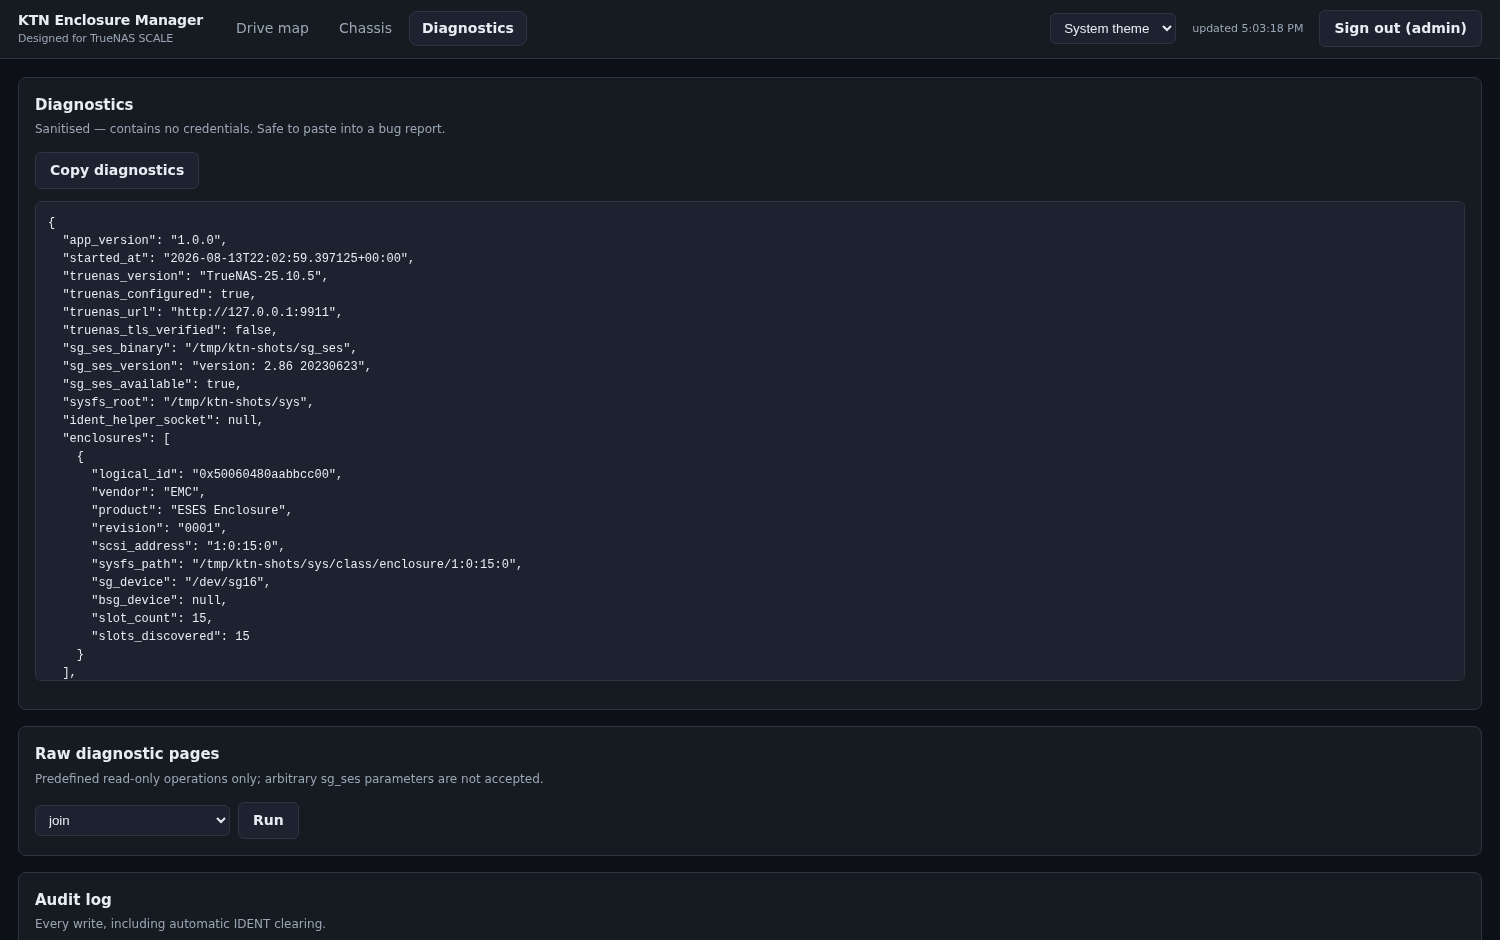
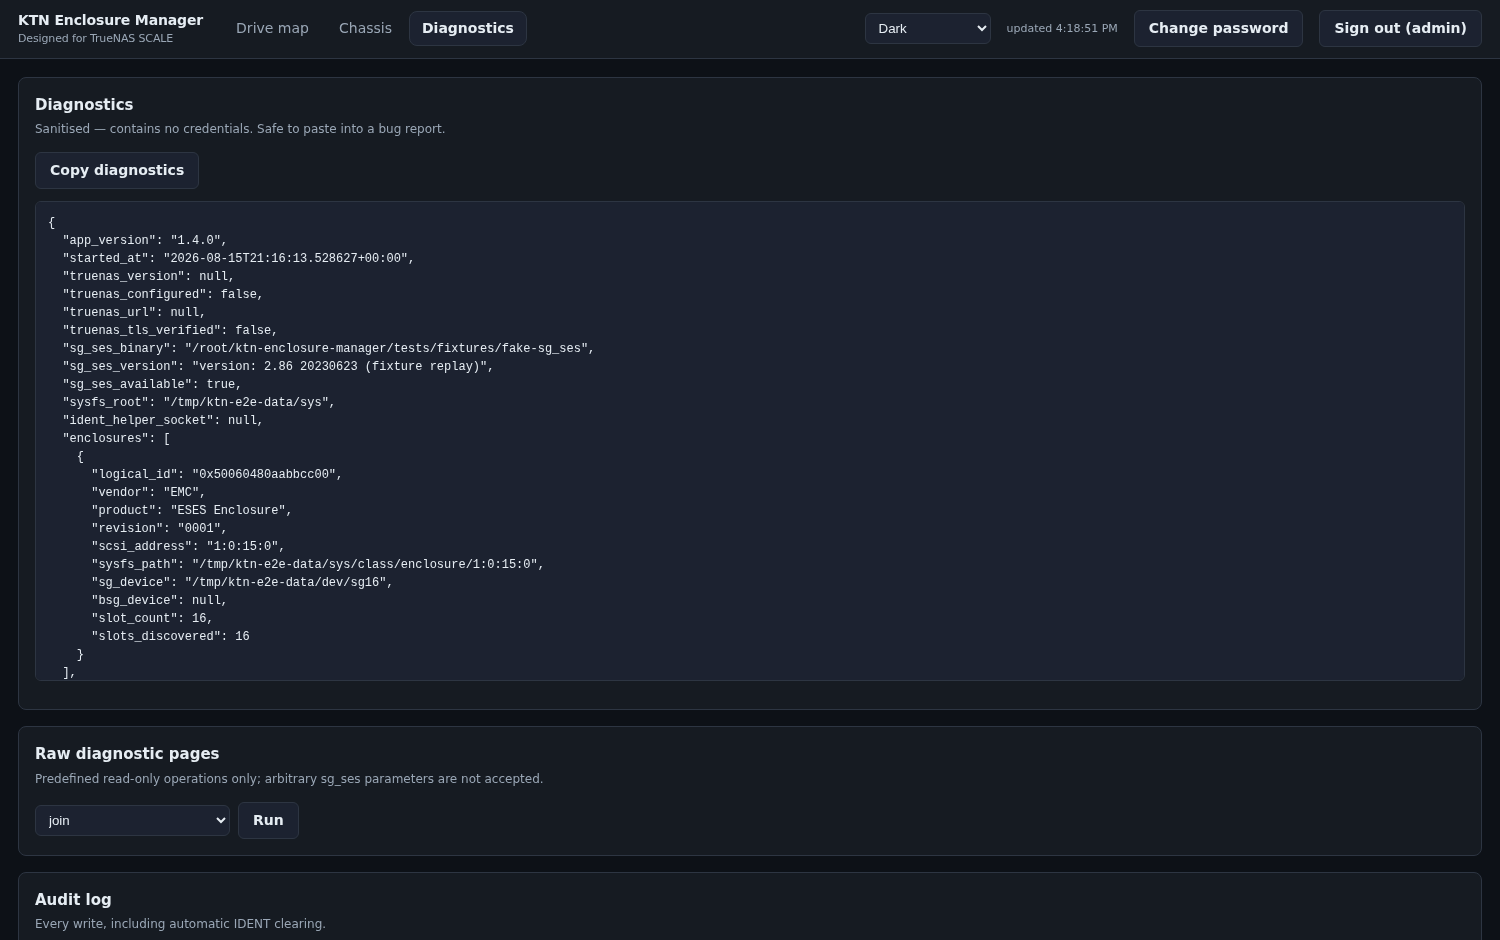
Refresh the screenshots, and give the chassis view real test coverage
The screenshots dated from 8/13 and predated the change-password button
and the reworked SMART panel. Regenerated from the sanitised fixture
rather than the live shelf, so no real serials, WWNs or enclosure ids can
reach a public repo - that constraint is why they are shot this way and
not from production.

Chassis could not be captured that way before: the fixture has no SES
device, so the tab rendered "sg_ses is not installed" and the first
attempt replaced a good screenshot with a 27KB picture of an error
message. tests/fixtures/fake-sg_ses now replays the captured, sanitised
SES pages, wired into the E2E harness. The stub refuses unrecognised
arguments rather than inventing output, which is how it caught its own
device-path bug immediately.

That also buys real coverage: the chassis rendering path had none, since
it was never exercised with data. There is now a test asserting the
subenclosure list actually renders, bounded by the poll interval rather
than a guessed sleep - a short wait is exactly how the bad screenshot
happened.

Also drops frontend/tsconfig.tsbuildinfo from tracking; a build cache in
the repo can make tsc skip work it should redo.

Claude-Session: https://claude.ai/code/session_014UDohyzVGaVnDkpcLJ4g3V

diff --git a/frontend/e2e/app.spec.ts b/frontend/e2e/app.spec.ts
@@ -124,10 +124,28 @@ test.describe("identify", () => {
 test.describe("chassis and diagnostics", () => {
   test.beforeEach(async ({ page }) => bootstrapAndLogin(page));
 
-  test("chassis reports unavailability rather than breaking", async ({ page }) => {
-    // sg_ses is absent in CI, which must degrade this section only (§37).
+  test("chassis renders without breaking the page", async ({ page }) => {
+    // The harness replays captured SES pages through tests/fixtures/fake-sg_ses,
+    // so this section has content. It must also survive having none - the poll
+    // runs on an interval, so early in a run it legitimately shows the
+    // not-collected-yet state, and either is acceptable here (§37).
     await page.getByRole("tab", { name: "Chassis" }).click();
     await expect(page.getByRole("heading", { name: "Chassis" })).toBeVisible();
+  });
+
+  test("chassis telemetry renders once the SES poll has run", async ({ page }, testInfo) => {
+    // One project only: the wait is bounded by the SES poll interval and there
+    // is no value in paying it twice for the same backend.
+    test.skip(testInfo.project.name !== "desktop", "one backend, one poll");
+    await page.getByRole("tab", { name: "Chassis" }).click();
+
+    // Bounded by the poll interval, not a guess.
+    await expect(page.getByText("Chassis health")).toBeVisible({ timeout: 60_000 });
+
+    // The captured pages describe five subenclosures; if the parser regressed
+    // this section would render empty while still showing its heading.
+    await expect(page.getByText(/EMC Viper LCC/).first()).toBeVisible();
+    await expect(page.getByText(/50060480aabbcc00/).first()).toBeVisible();
   });
 
   test("drive map still works when chassis telemetry is unavailable", async ({ page }) => {
